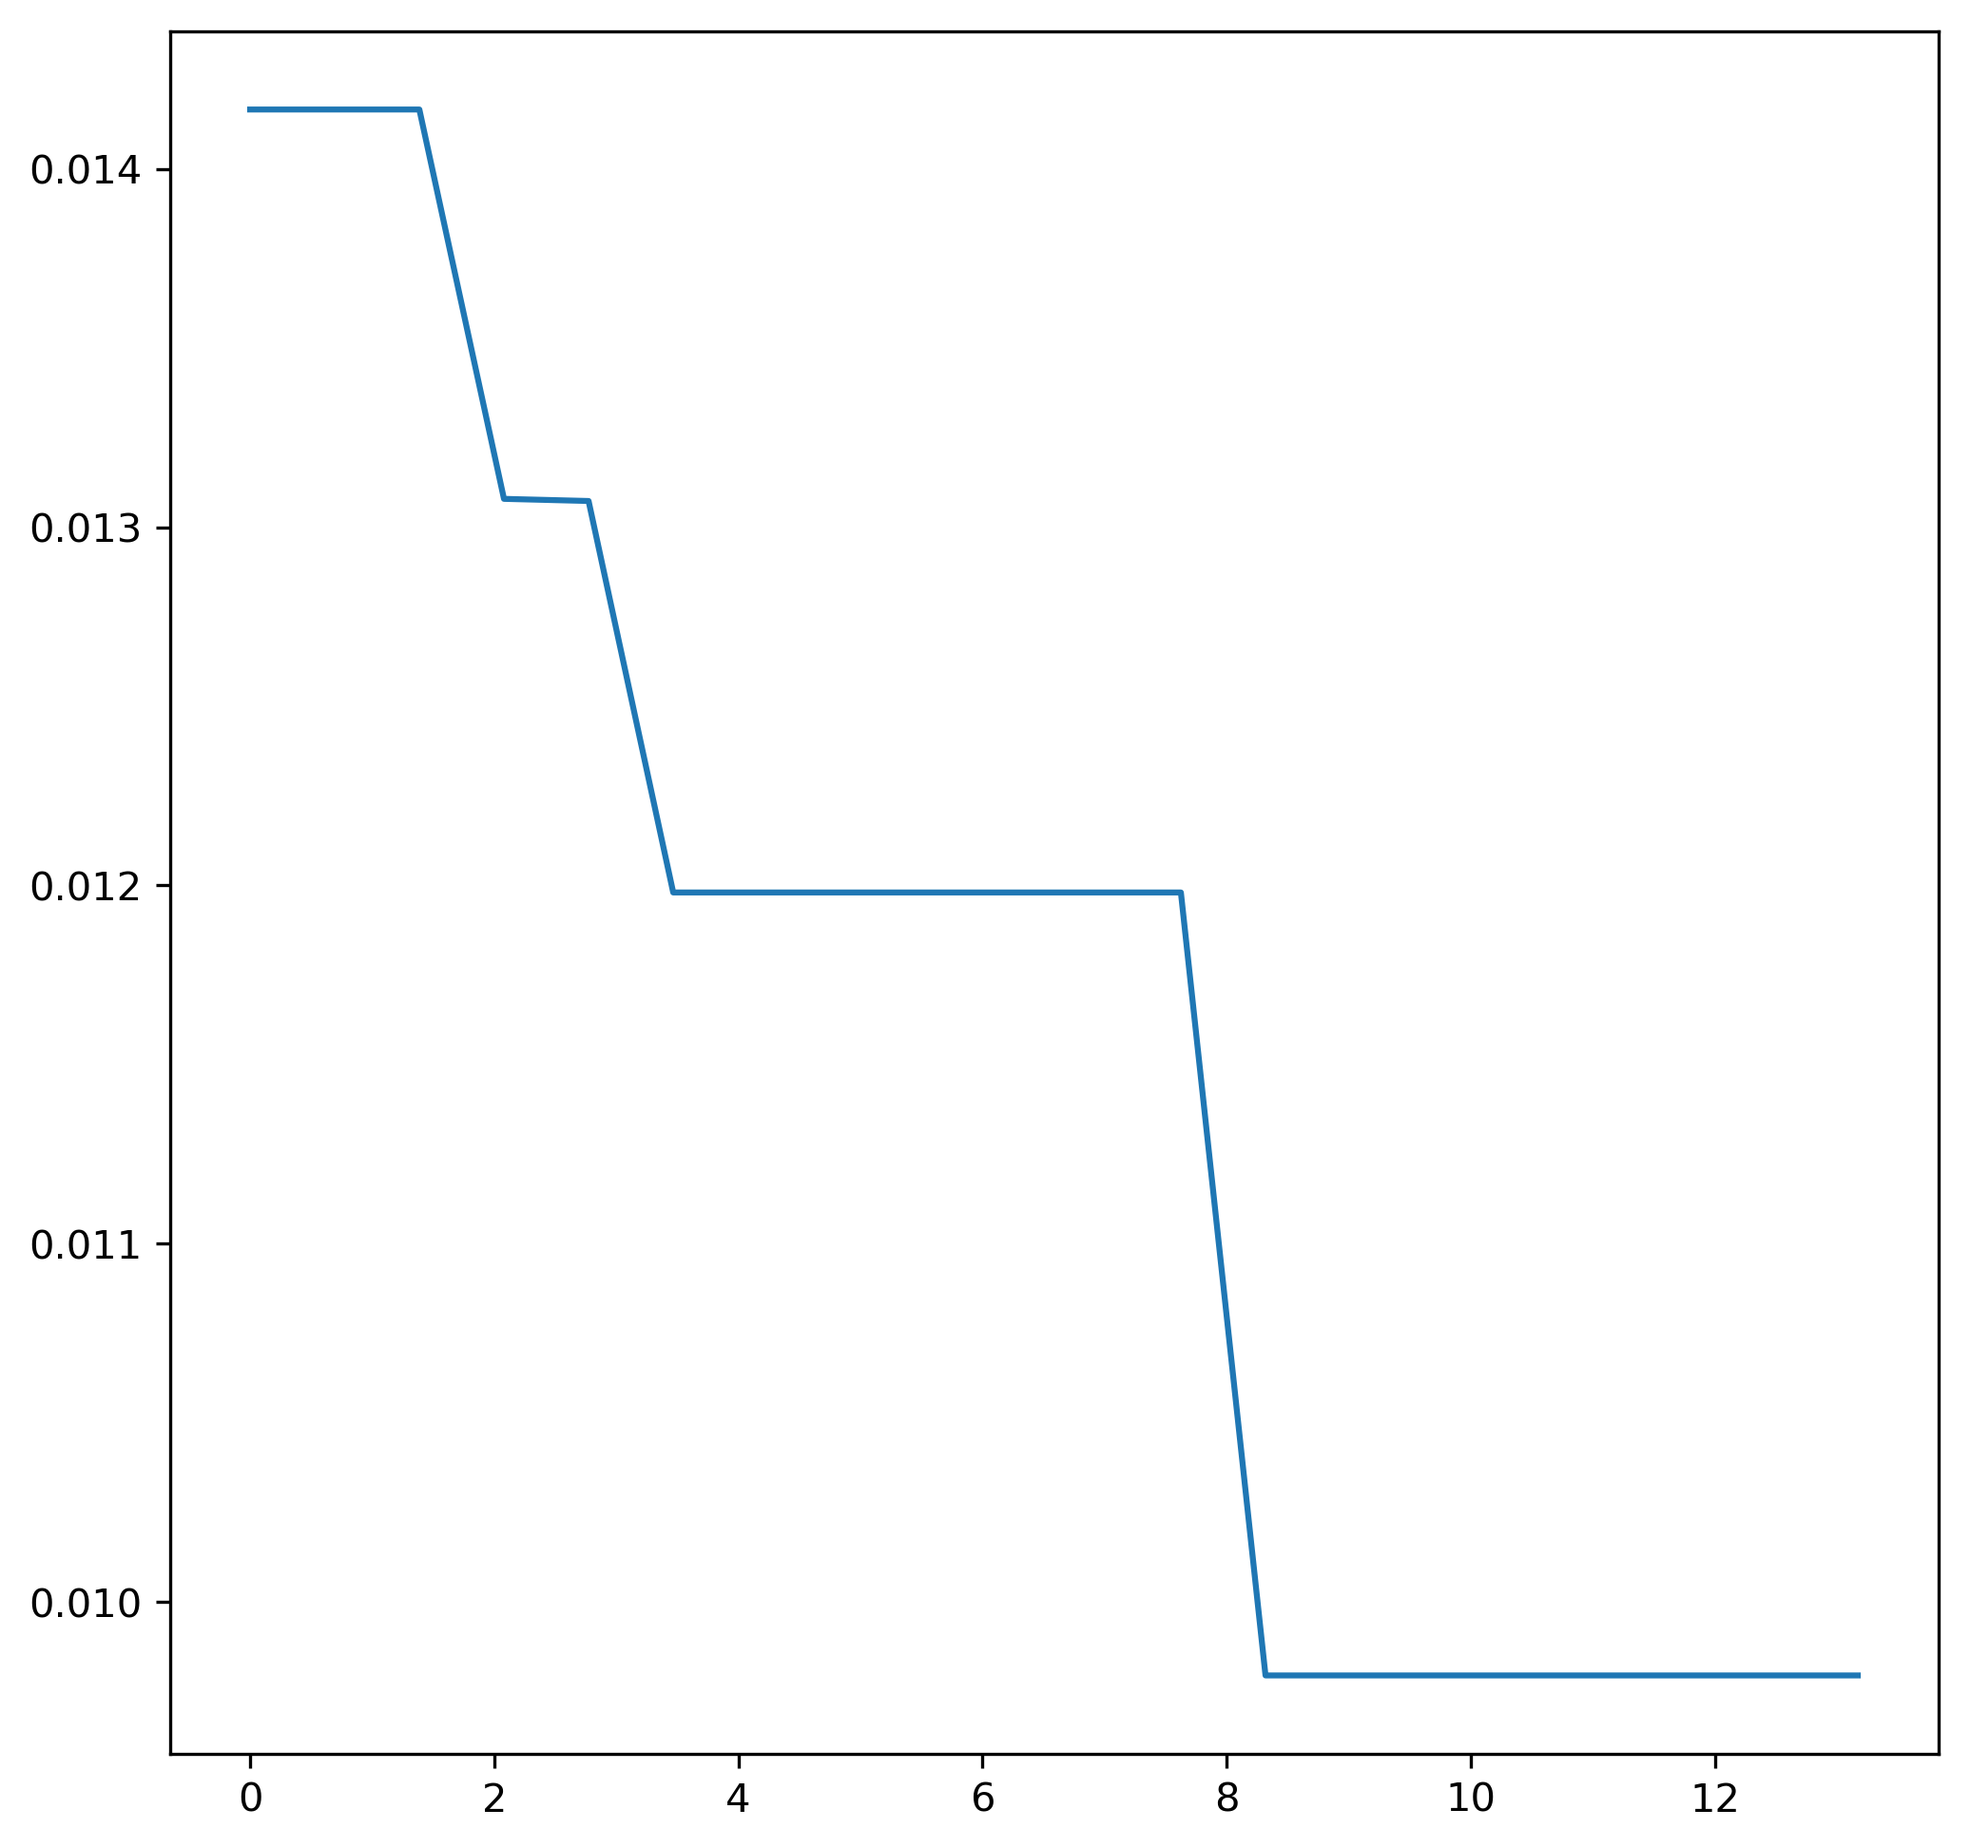
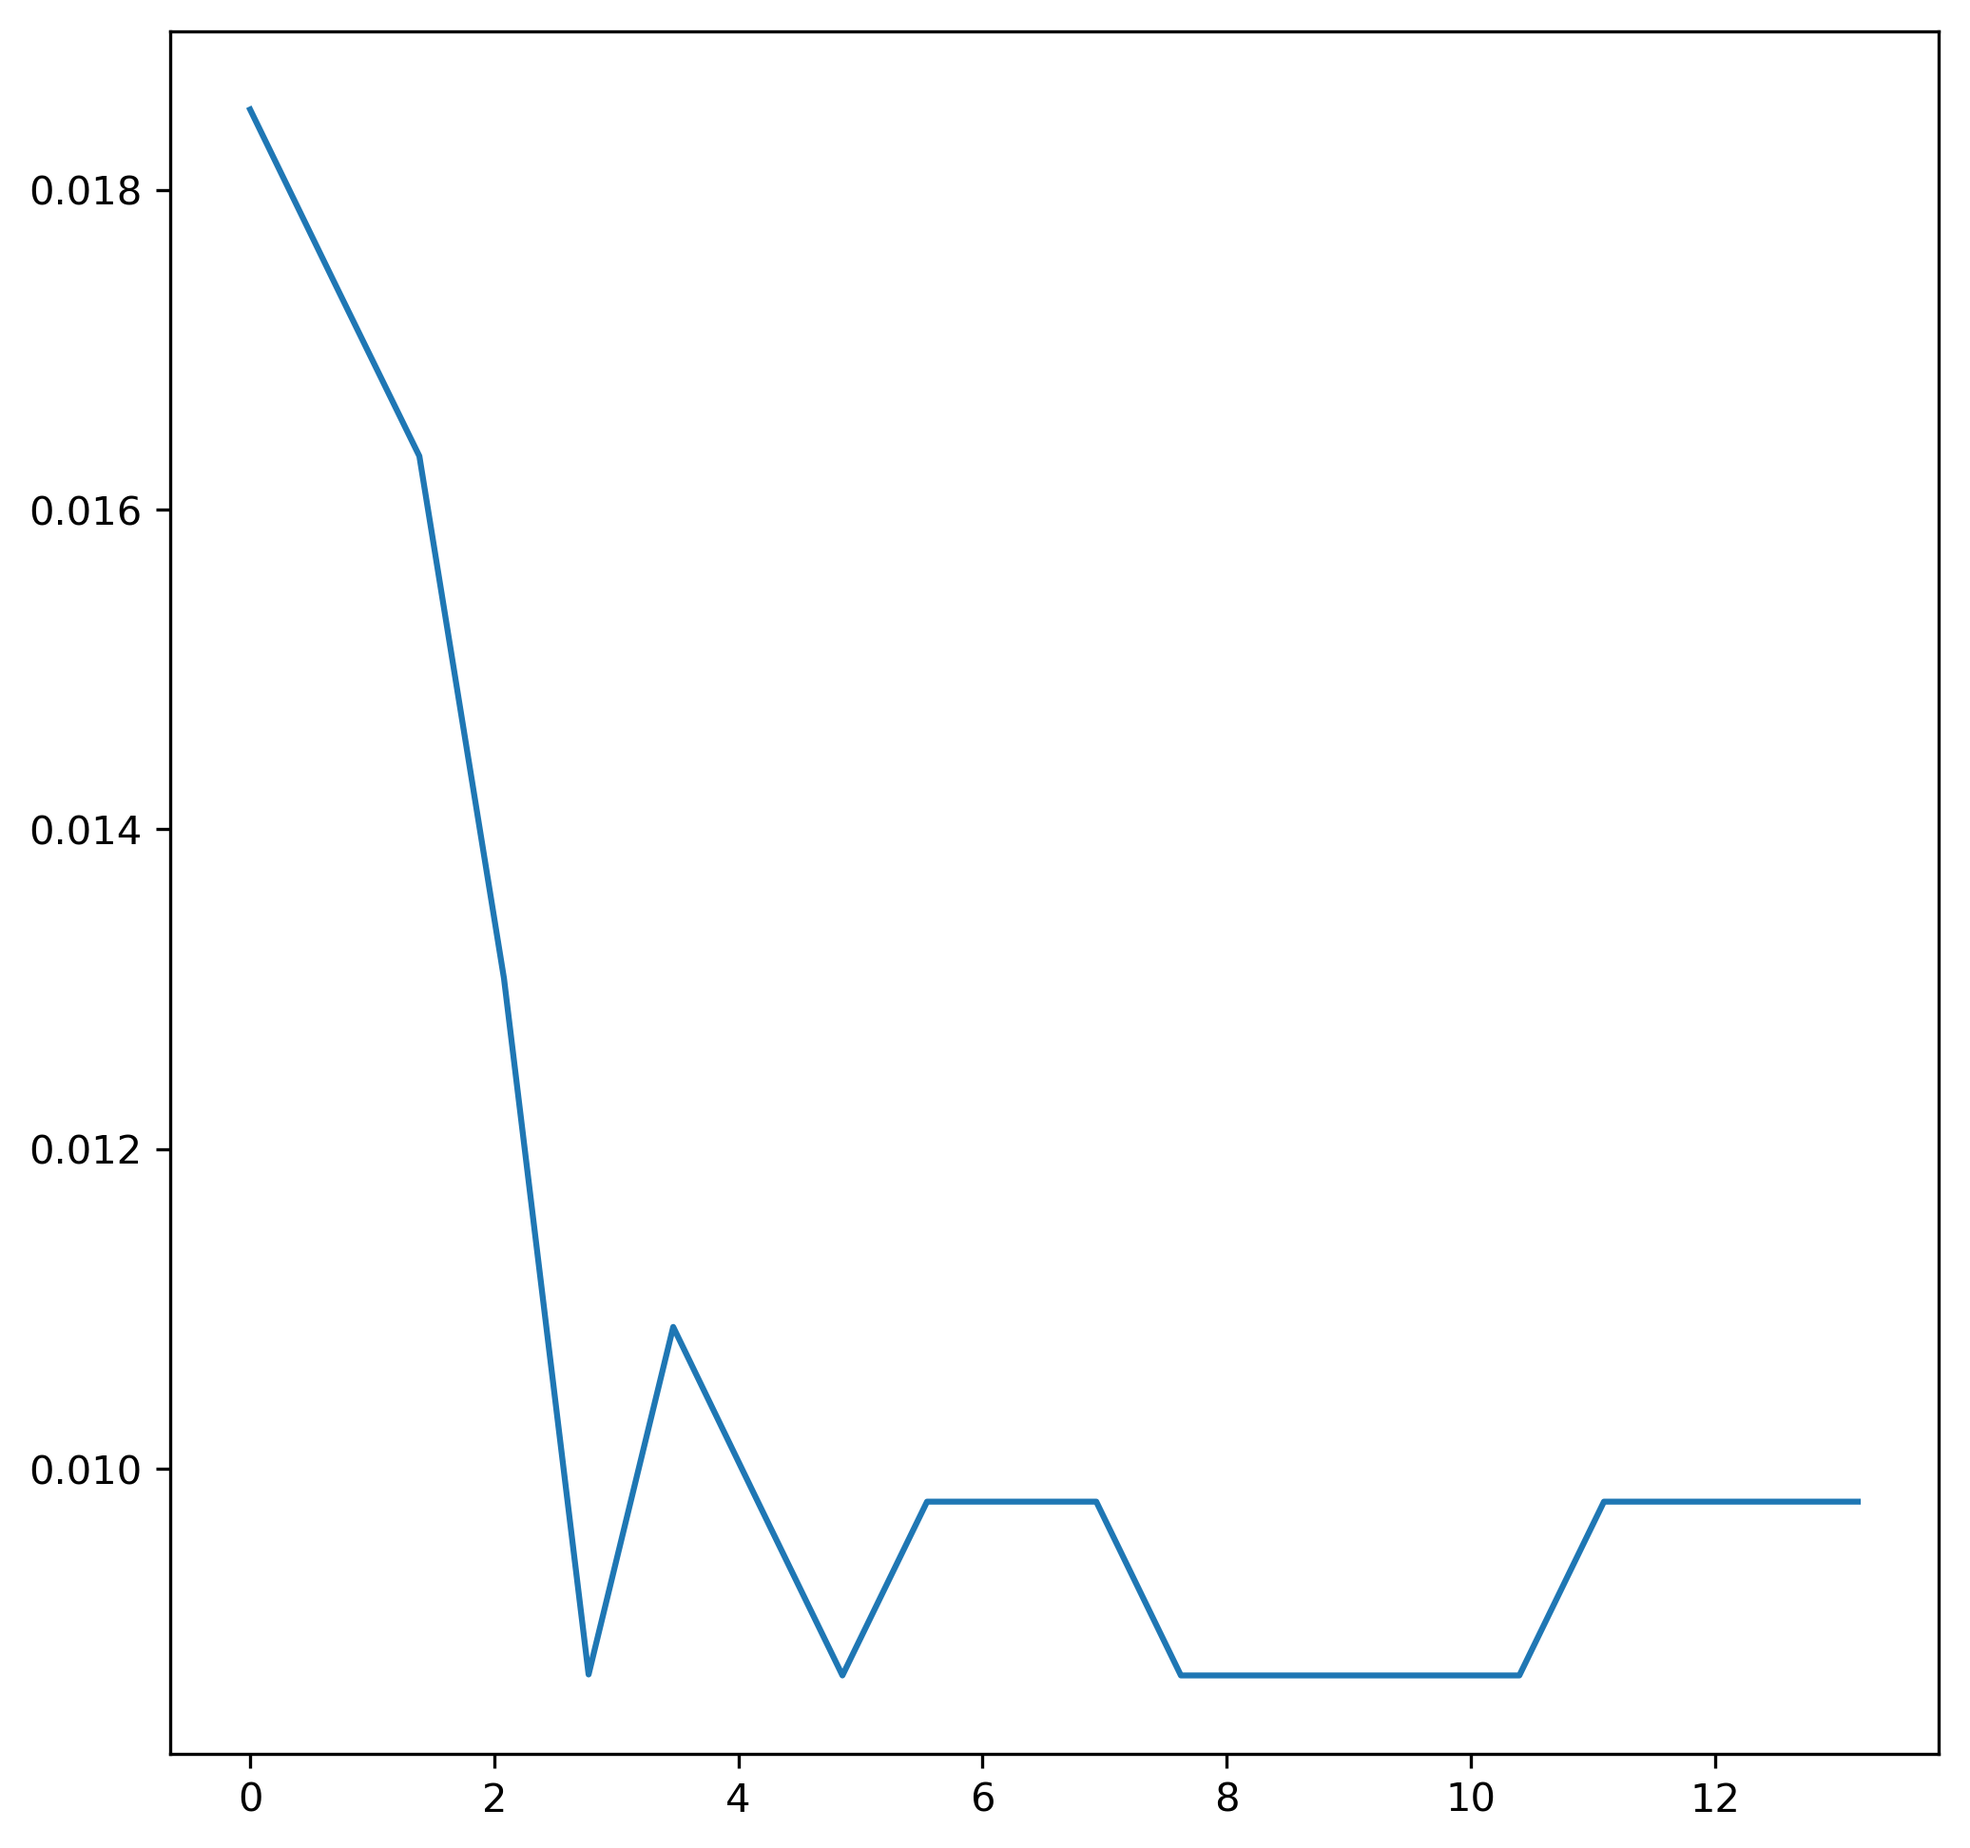
bayes

diff --git a/TP1.py b/TP1.py
@@ -8,7 +8,9 @@ Created on Wed Oct  3 08:09:21 2018
 """
 import numpy as np
 import matplotlib.pyplot as plt
-
+from Logistic import Logistic
+from KNN import Knn
+from NaiveBayes import NaiveBayes
 from sklearn.linear_model import LogisticRegression
 from math import log
 from sklearn.cross_validation import StratifiedKFold
@@ -18,9 +20,9 @@ from sklearn.utils import shuffle
 from sklearn.metrics import accuracy_score
 from sklearn.neighbors import KNeighborsClassifier
 from sklearn.neighbors.kde import KernelDensity
-
 def get_data(filename):
     mat = np.loadtxt(filename, delimiter = ',')
+    
     data = shuffle(mat)
     Ys = data[:,-1]
     Xs = data[:,:-1]
@@ -30,40 +32,30 @@ def get_data(filename):
     return Xs, Ys
     
 def compare(filename): #filename vai ser Tp1_data.csv
+    knn = False
+    logistic = False
+    nb = True
     Xs, Ys = get_data(filename)
     X_r, X_t, Y_r, Y_t = train_test_split(Xs, Ys, test_size = 0.33, stratify = Ys)
     folds = 5
     Kf = StratifiedKFold(Y_r, n_folds = folds)
-    KnnErr, bestN, KnnPred = Knn(Kf, X_r, Y_r, X_t, Y_t) #KnnPred AA-07
-    print("KnnErr, bestN", KnnErr, bestN)
-    LogScore, bestC, LogPred = Logistic(Kf, X_r, Y_r, X_t, Y_t)
-    print("LogisticScore, bestC", LogScore, bestC)
-    NBScore, bestBandwidth, NBPred=NaiveBayes(Kf, X_r, Y_r, X_t, Y_t)
-    print("NBScore, bestBandwidth", NBScore, bestBandwidth)
-    MCNmarKnn_Log=MCNmar(KnnPred, LogPred, Y_t) #(|e01-e10|-1)²/e01+e10
-    MCNmarNB_Log=MCNmar(NBPred, LogPred, Y_t)
-    MCNmarNB_Knn=MCNmar(NBPred, KnnPred, Y_t)
-    print("MCNmarKnn_Log", MCNmarKnn_Log)
-    print("MCNmarKnn_Log", MCNmarNB_Log)
-    print("MCNmarKnn_Log", MCNmarNB_Knn)
+    if knn:
+        KnnErr, bestN, KnnPred = Knn(Kf, X_r, Y_r, X_t, Y_t) #KnnPred AA-07
+        print("KnnErr, bestN", KnnErr, bestN)
+    if logistic:
+        LogScore, bestC, LogPred = Logistic(Kf, X_r, Y_r, X_t, Y_t)
+        print("LogisticScore, bestC", LogScore, bestC)
+    if nb:
+        NBScore, bestBandwidth=NaiveBayes(Kf, X_r, Y_r, X_t, Y_t)
+        print("NBScore, bestBandwidth", NBScore, bestBandwidth)
+    #MCNmarKnn_Log=MCNmar(KnnPred, LogPred, Y_t) #(|e01-e10|-1)²/e01+e10
+    #MCNmarNB_Log=MCNmar(NBPred, LogPred, Y_t)
+    #MCNmarNB_Knn=MCNmar(NBPred, KnnPred, Y_t)
+    #print("MCNmarKnn_Log", MCNmarKnn_Log)
+    #print("MCNmarKnn_Log", MCNmarNB_Log)
+    #print("MCNmarKnn_Log", MCNmarNB_Knn)
       
     
-def Knn(Kf, X_r, Y_r, X_t, Y_t):
-    N=1; Ns=[]; lowest=10000 ; errs=[]
-    for ix in range (20): # 40/2 only odd values
-        reg=KNeighborsClassifier(N) #Para o logistic aqui é LogisticRegression mas umas alteracoes
-        scores = cross_val_score(reg, X_r, Y_r,cv=Kf)
-        va_err = 1-np.mean(scores)
-        if va_err < lowest:
-            lowest= va_err; Best_n = N
-        errs.append(va_err); Ns.append(N); N=N+2
-    errs = np.array(errs)
-    plt.figure(figsize=(8,8),frameon=False)
-    plt.plot(Ns, errs,'-',linewidth=3)
-    plt.show()
-    plt.close()
-    reg=KNeighborsClassifier(Best_n); reg.fit(X_r, Y_r)
-    return 1-reg.score(X_t, Y_t), Best_n, reg.predict(X_t)
 
 def MCNmar(PredA, PredB,y):
     TrueA = PredA==y 
@@ -74,53 +66,3 @@ def MCNmar(PredA, PredB,y):
     NTbFa = sum(TrueB*FalseA)
     return ((abs(NTaFb-NTbFa)-1)**2)*1.0/(NTaFb+NTbFa)
 
-def calc_fold(X,Y, Kf,C=1e12):
-    """return error for train and validation sets"""
-    reg = LogisticRegression(C=C, tol=1e-10)
-    scores = cross_val_score(reg, X, Y,cv=Kf)
-    va_err = 1-np.mean(scores)
-    return va_err
-
-def Logistic(Kf, X_r, Y_r, X_t, Y_t):
-    best_C=1
-    errs = []
-    C=1
-    Cs=[]
-    best_va= 10000
-    """Generate folds and loop"""
-    for ic in range(20):
-        va_err = calc_fold(X_r, Y_r, Kf,C=C )
-        if va_err <= best_va:
-            best_va = va_err; best_C = C
-        errs.append(va_err)
-        Cs.append(log(C))
-        C*=2
-    errs = np.array(errs)
-    Cs = np.array(Cs)
-    fig = plt.figure(figsize=(8,8),frameon=False)
-    plt.plot(Cs,errs)
-    fig.savefig('p_3.png', dpi=300, bbox_inches = 'tight')
-    plt.show()
-    plt.close()
-    reg=LogisticRegression(C=best_C, tol=1e-10); reg.fit(X_r, Y_r)
-    return 1-reg.score(X_t, Y_t), best_C, reg.predict(X_t)
-    
-def NaiveBayes (Kf, X_r, Y_r, X_t, Y_t):
-    best_bandwidth=0.01
-    lowest=10000 
-    errs=[]
-    for bandwidth in range(1,100,2):
-        reg=KernelDensity(kernel='gaussian', bandwidth=bandwidth/100)
-        acc_score = accuracy_score(Y_t, reg.predict(X_t), normalize=False)
-        if acc_score < lowest:
-            lowest= acc_score; best_bandwidth = bandwidth
-        errs.append(acc_score)
-    errs = np.array(errs)
-    plt.figure(figsize=(8,8),frameon=False)
-    plt.plot(range(1,100,2), errs,'-',linewidth=3)
-    plt.show()
-    plt.close()
-    reg=KernelDensity(kernel='gaussian', bandwidth=best_bandwidth/100)
-    return 1-reg.score(X_t, Y_t), best_bandwidth/100, reg.predict(X_t)
-        
-#implementar Logistic, Kneighborns

diff --git a/Logistic.py b/Logistic.py
@@ -1,0 +1,49 @@
+#!/usr/bin/env python3
+# -*- coding: utf-8 -*-
+"""
+Created on Wed Oct  3 08:09:21 2018
+
+@author: Micael Beco
+@author: Gabriel Baptista
+"""
+import numpy as np
+import matplotlib.pyplot as plt
+
+from sklearn.linear_model import LogisticRegression
+from math import log
+from sklearn.cross_validation import cross_val_score
+
+
+
+def calc_validation_error(X,Y, Kf,C=1e12):
+    """return error for train and validation sets"""
+    reg = LogisticRegression(C=C, tol=1e-10)
+    scores = cross_val_score(reg, X, Y,cv=Kf)
+    va_err = 1-np.mean(scores)
+    return va_err
+
+def Logistic(Kf, X_r, Y_r, X_t, Y_t):
+    best_C=1
+    errs = []
+    C=1
+    Cs=[]
+    best_va= 10000
+    """Generate folds and loop"""
+    for ic in range(20):
+        va_err = calc_validation_error(X_r, Y_r, Kf,C=C )
+        if va_err <= best_va:
+            best_va = va_err; best_C = C
+        errs.append(va_err)
+        Cs.append(log(C))
+        C*=2
+        print(va_err)
+    errs = np.array(errs)
+    Cs = np.array(Cs)
+    fig = plt.figure(figsize=(8,8),frameon=False)
+    plt.plot(Cs,errs)
+    fig.savefig('p_3.png', dpi=300, bbox_inches = 'tight')
+    plt.show()
+    plt.close()
+    reg=LogisticRegression(C=best_C, tol=1e-10); reg.fit(X_r, Y_r)
+    return 1-reg.score(X_t, Y_t), best_C, reg.predict(X_t)
+    

diff --git a/NaiveBayes.py b/NaiveBayes.py
@@ -1,0 +1,36 @@
+#!/usr/bin/env python3
+# -*- coding: utf-8 -*-
+"""
+Created on Wed Oct  3 08:09:21 2018
+
+@author: Micael Beco
+@author: Gabriel Baptista
+"""
+import numpy as np
+import matplotlib.pyplot as plt
+
+from math import log
+from sklearn.cross_validation import cross_val_score
+from sklearn.metrics import accuracy_score
+from sklearn.neighbors.kde import KernelDensity
+
+def NaiveBayes (Kf, X_r, Y_r, X_t, Y_t):
+    best_bandwidth=0.01 #width of the kernel
+    lowest=10000 
+    errs=[]
+    bds = []
+    for bandwidth in range(1,100,2):
+        reg=KernelDensity(kernel='gaussian', bandwidth=bandwidth/100)
+        reg.fit(X_r)
+        reg.score_samples(arrayshape)
+        va = 1-np.mean(scores)
+        print(va)
+    plt.figure(figsize=(8,8),frameon=False)
+    plt.plot(bds, errs,'-',linewidth=3)
+    plt.show()
+    plt.close()
+    reg=KernelDensity(kernel='gaussian', bandwidth=best_bandwidth/100); reg.fit(X_r,Y_r)
+    return 1-reg.score(X_t, Y_t), best_bandwidth/100
+    return 0, 0
+        
+#implementar Logistic, Kneighborns

diff --git a/KNN.py b/KNN.py
@@ -1,0 +1,30 @@
+#!/usr/bin/env python3
+# -*- coding: utf-8 -*-
+"""
+Created on Wed Oct  3 08:09:21 2018
+
+@author: Micael Beco
+@author: Gabriel Baptista
+"""
+import numpy as np
+import matplotlib.pyplot as plt
+
+from sklearn.cross_validation import cross_val_score
+from sklearn.neighbors import KNeighborsClassifier
+
+def Knn(Kf, X_r, Y_r, X_t, Y_t):
+    N=1; Ns=[]; lowest=10000 ; errs=[]
+    for ix in range (20): # 40/2 only odd values
+        reg=KNeighborsClassifier(N) #Para o logistic aqui é LogisticRegression mas umas alteracoes
+        scores = cross_val_score(reg, X_r, Y_r,cv=Kf)
+        va_err = 1-np.mean(scores)
+        if va_err < lowest:
+            lowest= va_err; Best_n = N
+        errs.append(va_err); Ns.append(N); N=N+2
+    errs = np.array(errs)
+    plt.figure(figsize=(8,8),frameon=False)
+    plt.plot(Ns, errs,'-',linewidth=3)
+    plt.show()
+    plt.close()
+    reg=KNeighborsClassifier(Best_n); reg.fit(X_r, Y_r)
+    return 1-reg.score(X_t, Y_t), Best_n, reg.predict(X_t)
